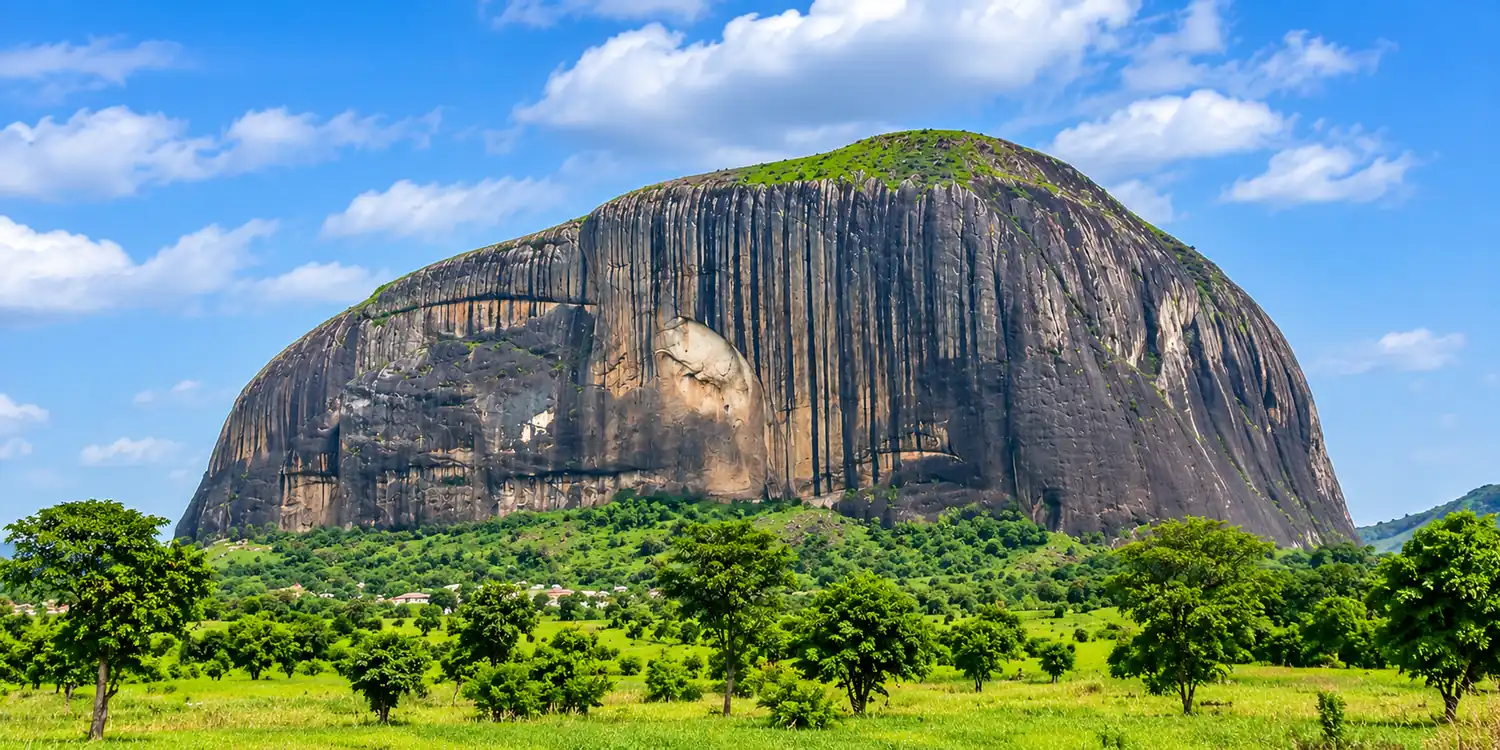
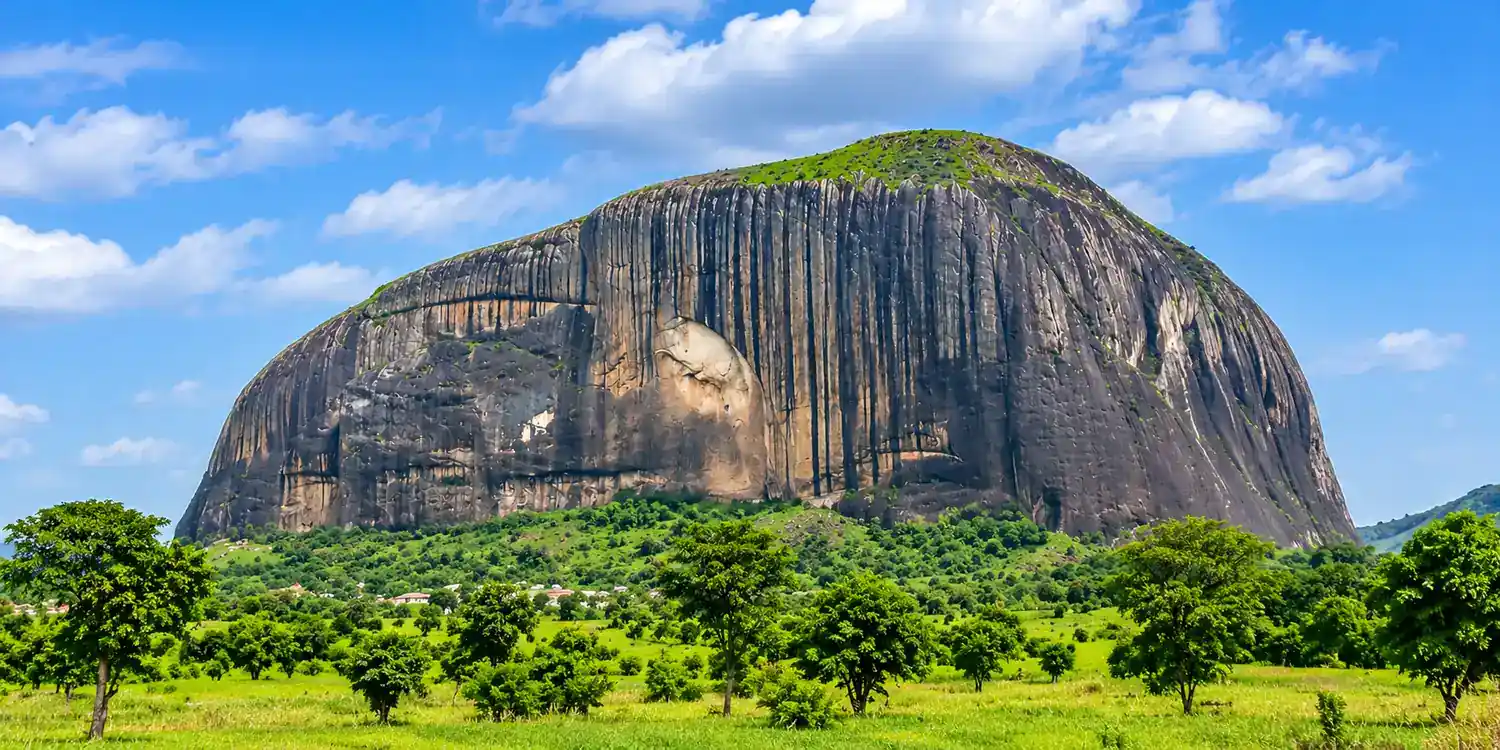
nigeria picture change

diff --git a/place.html b/place.html
@@ -1,11 +1,12 @@
-
 <!DOCTYPE html>
 <html lang="en">
+
 <head>
     <meta charset="UTF-8">
     <meta name="viewport" content="width=device-width, initial-scale=1.0">
-    <meta name="description" content="Discover Nigeria, the Giant of Africa, its people, culture, geography and weather.">
-    <meta name="author" content="Your Name">
+    <meta name="description"
+        content="Discover Nigeria, the Giant of Africa, its people, culture, geography and weather.">
+    <meta name="author" content="Samson Yakubu">
     <title>Nigeria | The Giant of Africa</title>
 
     <link rel="stylesheet" href="styles/place.css">
@@ -21,16 +22,9 @@
     <main>
         <div class="hero">
             <picture>
-                <source
-                    srcset="images/nigeria-large.webp"
-                    media="(min-width: 1000px)">
-                <source
-                    srcset="images/nigeria-medium.webp"
-                    media="(min-width: 500px)">
-                <img
-                    src="images/nigeria-small.webp"
-                    alt="Beautiful landscape representing Nigeria"
-                    width="1500"
+                <source srcset="images/nigeria-large.webp" media="(min-width: 1000px)">
+                <source srcset="images/nigeria-medium.webp" media="(min-width: 500px)">
+                <img src="images/nigeria-small.webp" alt="Beautiful landscape representing Nigeria" width="1500"
                     height="750">
             </picture>
         </div>
@@ -71,4 +65,5 @@
         <p>Last Modified: <span id="lastModified"></span></p>
     </footer>
 </body>
+
 </html>
